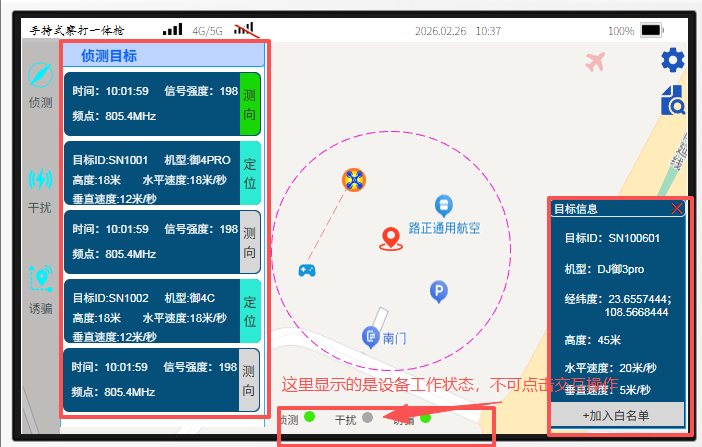
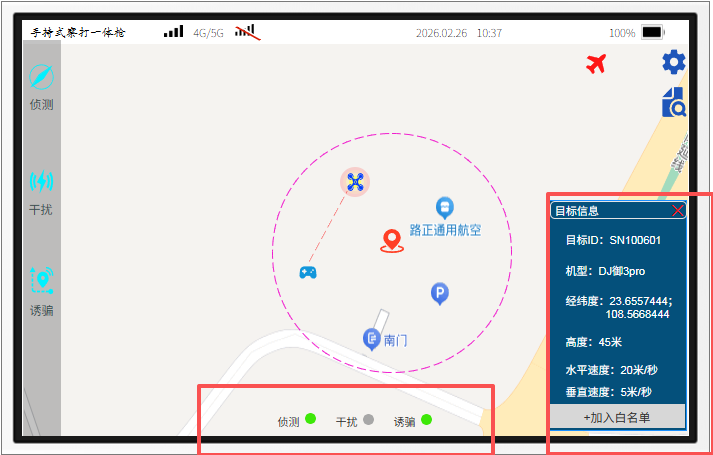
refactor: 调整UI界面以符合设计图要求

diff --git a/frontend/src/views/Main.vue b/frontend/src/views/Main.vue
@@ -41,7 +41,7 @@
           <div
             v-for="target in detectTargets"
             :key="target.id"
-            :class="['target-item', { selected: selectedTargetId === target.id }]"
+            :class="['target-item', { selected: selectedTargetId === target.id, 'button-active': target.buttonActive }]"
             @click="selectTarget(target)"
           >
             <div class="target-info">
@@ -75,10 +75,19 @@
               </div>
             </div>
             <div class="action-buttons">
-              <button class="measure-btn green">
+              <!-- 根据buttonType只显示一个按钮 -->
+              <button
+                v-if="target.buttonType === 'measure'"
+                :class="['measure-btn', 'measure-green']"
+                @click.stop="toggleButton(target)"
+              >
                 测向
               </button>
-              <button class="measure-btn blue">
+              <button
+                v-else
+                :class="['measure-btn', 'locate-blue']"
+                @click.stop="toggleButton(target)"
+              >
                 定位
               </button>
             </div>
@@ -221,7 +230,7 @@ const showTargetInfo = ref(false);
 const selectedTargetId = ref<string | null>(null);
 const currentTime = ref('');
 
-// 侦测目标数据
+// 侦测目标数据（添加按钮类型标识：measure=测向, locate=定位）
 const detectTargets = ref([
   {
     id: 1,
@@ -236,7 +245,9 @@ const detectTargets = ref([
     lat: 23.6557444,
     lng: 108.5668444,
     top: '40%',
-    left: '60%'
+    left: '60%',
+    buttonType: 'measure' as 'measure' | 'locate', // 按钮类型
+    buttonActive: false // 按钮是否激活
   },
   {
     id: 2,
@@ -251,7 +262,9 @@ const detectTargets = ref([
     lat: 23.6557445,
     lng: 108.5668445,
     top: '30%',
-    left: '70%'
+    left: '70%',
+    buttonType: 'locate' as 'measure' | 'locate', // 按钮类型
+    buttonActive: false
   },
   {
     id: 3,
@@ -266,7 +279,9 @@ const detectTargets = ref([
     lat: 23.6557446,
     lng: 108.5668446,
     top: '55%',
-    left: '45%'
+    left: '45%',
+    buttonType: 'measure' as 'measure' | 'locate',
+    buttonActive: false
   }
 ]);
 
@@ -277,10 +292,11 @@ const functions = [
 ];
 
 // 设备工作状态（只显示，不可交互）
+// 按照设计图：侦测和诱骗为绿色（激活），干扰为灰色（未激活）
 const deviceStatus = ref({
   detect: { active: true },
   interfere: { active: false },
-  decoy: { active: false }
+  decoy: { active: true }  // 改为激活状态
 });
 
 // 计算属性：当前选中目标信息
@@ -308,6 +324,12 @@ const updateTime = () => {
 };
 
 let timeInterval: number;
+
+// 切换按钮激活状态
+const toggleButton = (target: any) => {
+  // 切换该目标的按钮状态
+  target.buttonActive = !target.buttonActive;
+};
 
 // 选中目标
 const selectTarget = (target: any) => {
@@ -502,11 +524,11 @@ onUnmounted(() => {
   flex: 1;
   overflow-y: auto;
   padding: 12px;
-  background: #f8f8f8;
+  background: #bbdefb; /* 浅蓝色背景 */
 }
 
 .target-item {
-  background: #f0f0f0;
+  background: #9e9e9e; /* 默认灰色背景 */
   border: 1px solid #808080;
   border-radius: 6px;
   padding: 12px;
@@ -521,7 +543,7 @@ onUnmounted(() => {
 }
 
 .target-item:hover {
-  background: #e0e0e0;
+  background: #757575;
 }
 
 .target-item.selected {
@@ -532,6 +554,20 @@ onUnmounted(() => {
 .target-item.selected .param-label,
 .target-item.selected .param-value {
   color: #ffffff;
+}
+
+/* 按钮激活时的浅绿色背景 */
+.target-item.button-active {
+  background: #a5d6a7; /* 浅绿色背景 */
+}
+
+.target-item.button-active:hover {
+  background: #81c784;
+}
+
+.target-item.button-active .param-label,
+.target-item.button-active .param-value {
+  color: #000000;
 }
 
 .target-info {
@@ -584,19 +620,19 @@ onUnmounted(() => {
   min-width: 50px;
 }
 
-.measure-btn.green {
+.measure-btn.measure-green {
   background: #4caf50;
 }
 
-.measure-btn.green:hover {
+.measure-btn.measure-green:hover {
   background: #388e3c;
 }
 
-.measure-btn.blue {
+.measure-btn.locate-blue {
   background: #1565c0;
 }
 
-.measure-btn.blue:hover {
+.measure-btn.locate-blue:hover {
   background: #0d47a1;
 }
 
@@ -820,7 +856,7 @@ onUnmounted(() => {
 }
 
 .panel-header {
-  background: #1a5490;
+  background: #666666;
   padding: 12px 16px;
   display: flex;
   justify-content: space-between;
@@ -890,18 +926,21 @@ onUnmounted(() => {
 
 .whitelist-btn {
   padding: 10px 20px;
-  background: #81d4fa;
+  background: #cccccc;
   border: none;
   border-radius: 6px;
-  color: #000000;
+  color: #333333;
   font-size: 13px;
   font-weight: 500;
   cursor: pointer;
   transition: all 0.3s ease;
+  display: flex;
+  align-items: center;
+  gap: 6px;
 }
 
 .whitelist-btn:hover {
-  background: #4fc3f7;
+  background: #bbbbbb;
 }
 
 /* 底部设备状态栏 */
@@ -911,14 +950,12 @@ onUnmounted(() => {
   border-top: 2px solid #cccccc;
   display: flex;
   align-items: center;
-  justify-content: space-between;
+  justify-content: flex-end; /* 改为右对齐 */
   padding: 0 20px;
 }
 
 .status-warning {
-  color: #ff0000;
-  font-size: 12px;
-  font-weight: 600;
+  display: none; /* 隐藏提示文字 */
 }
 
 .device-status-items {
